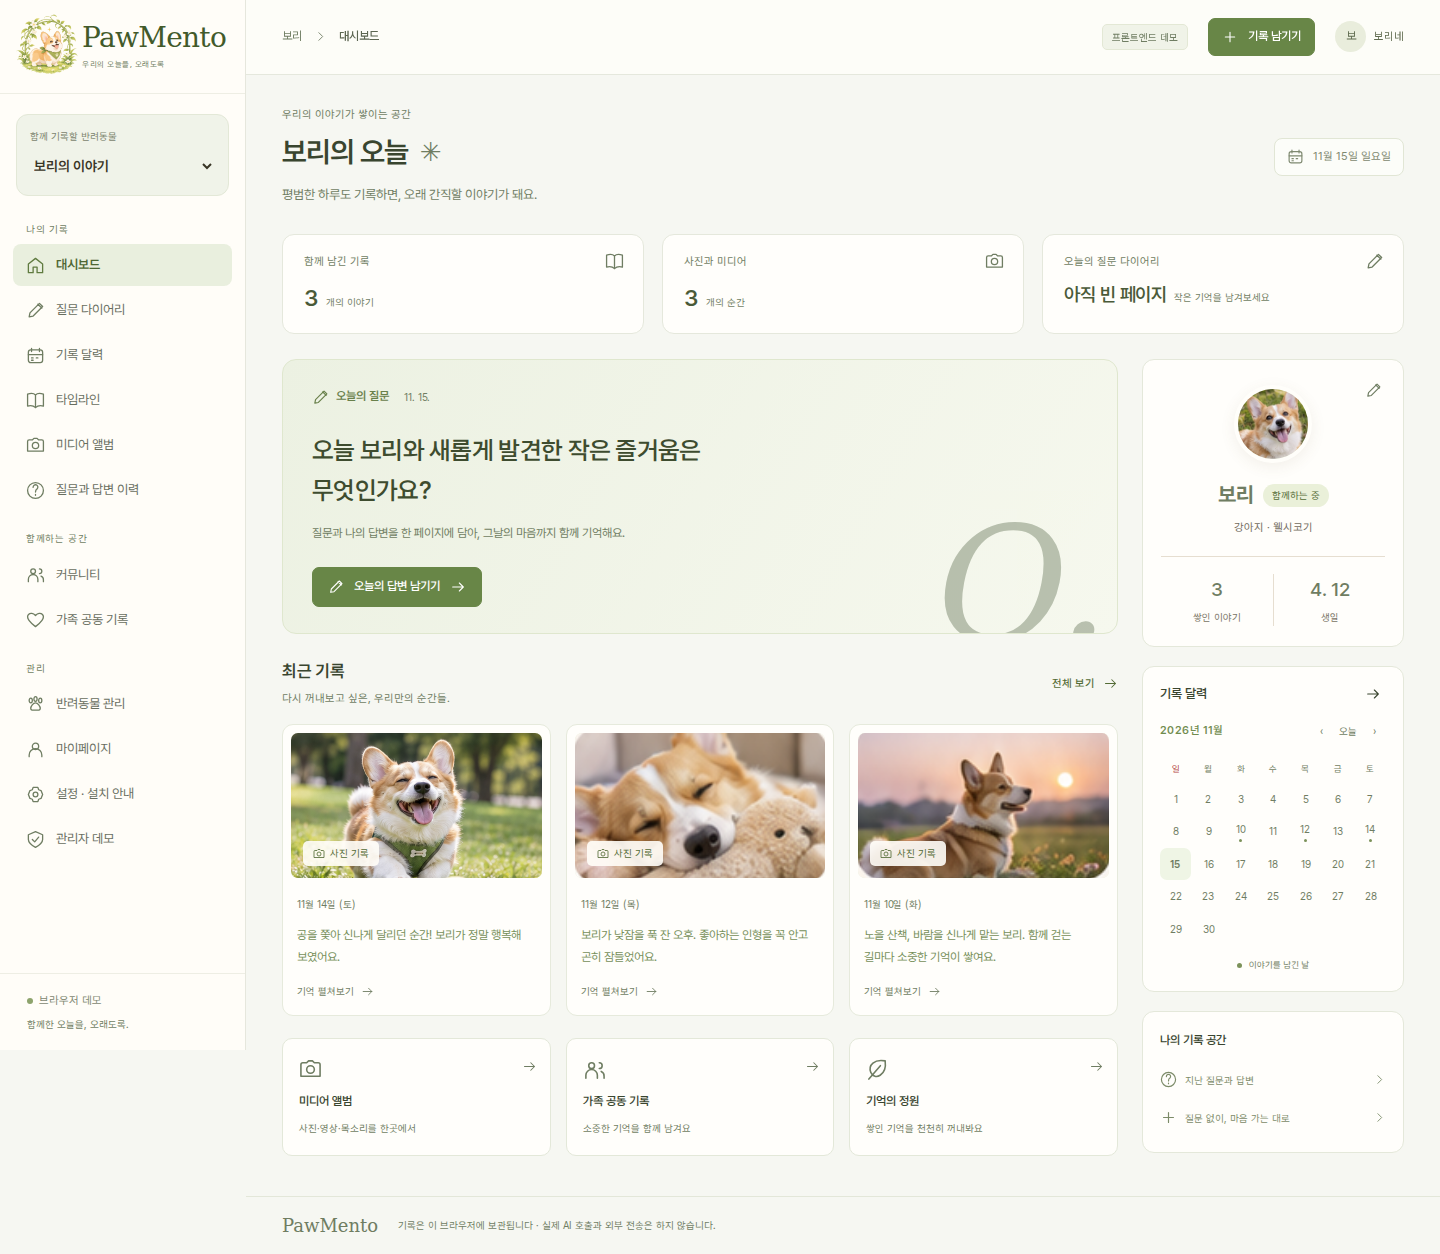
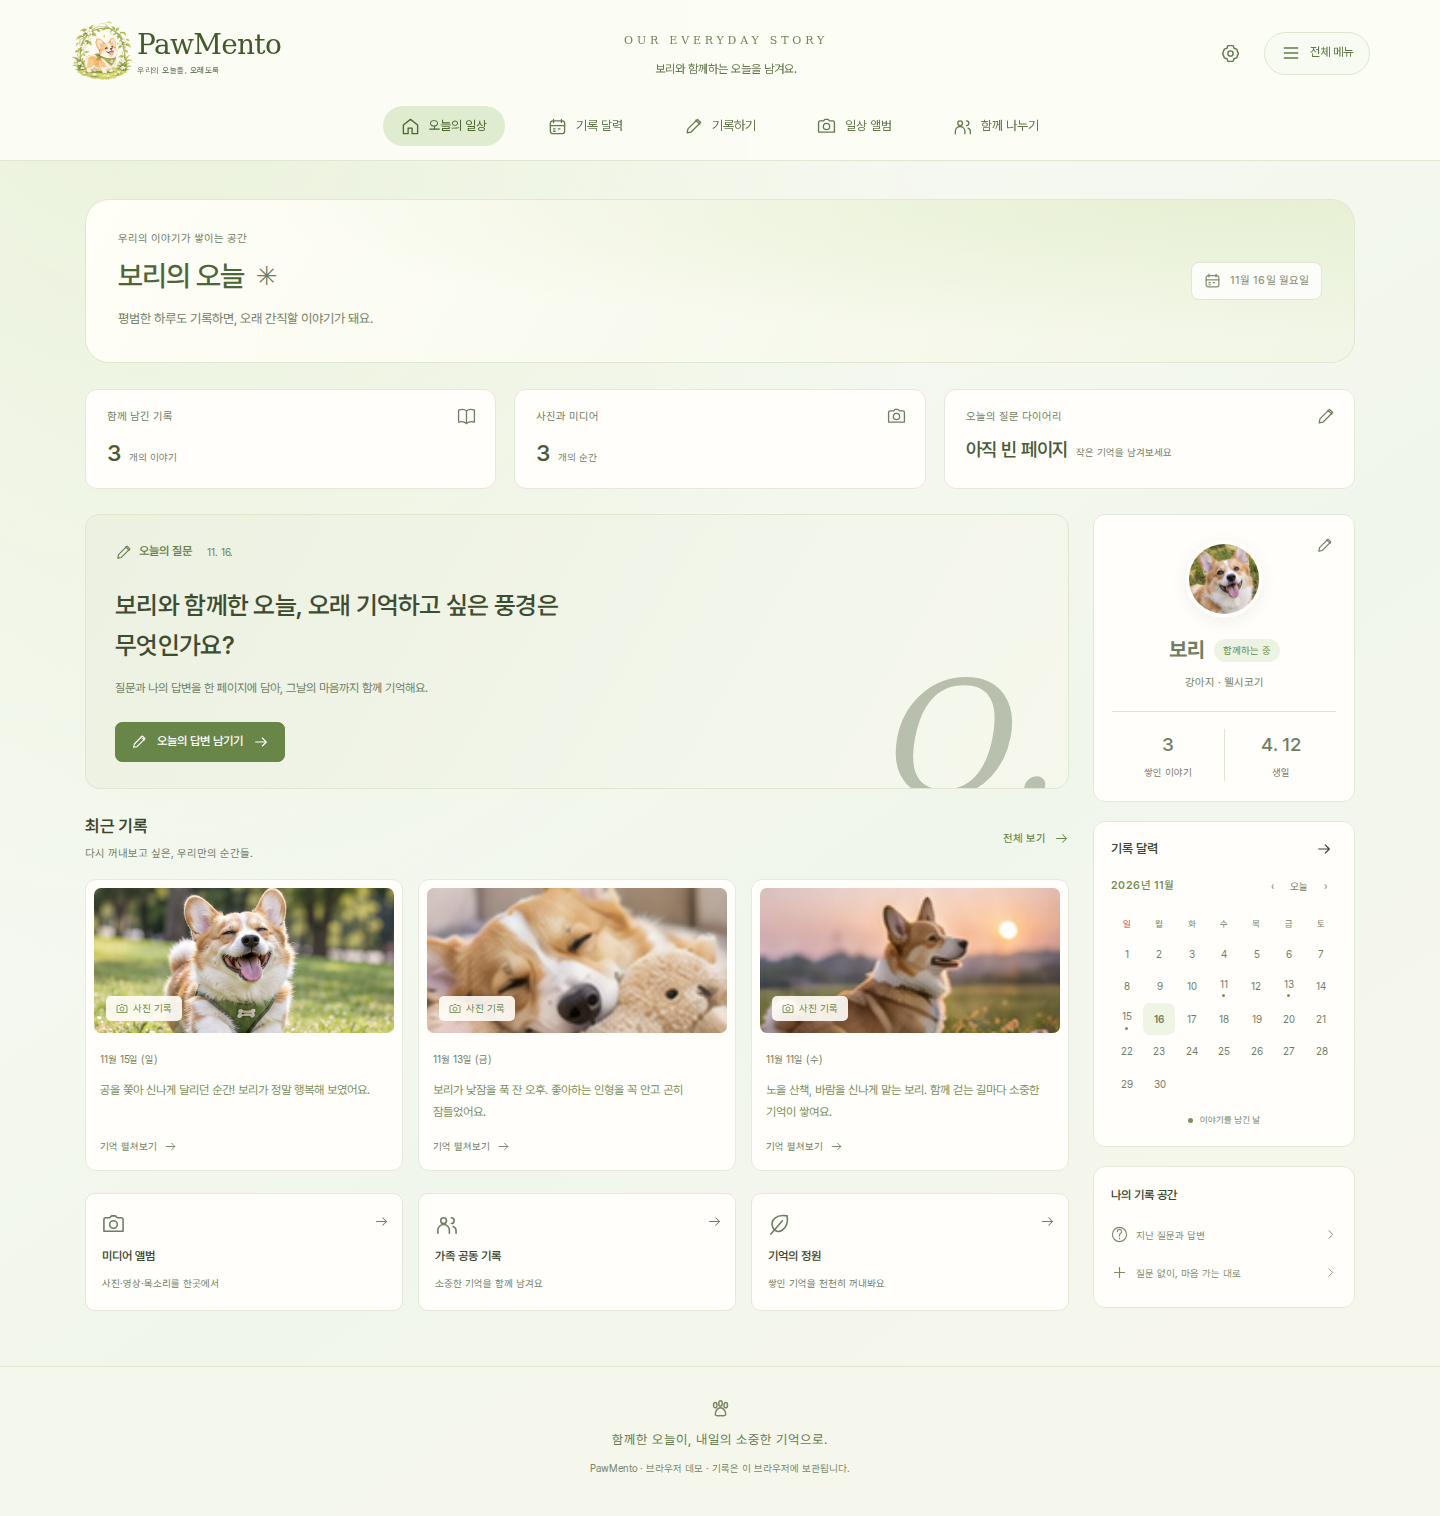
Docs: 공통 상단 레이아웃 디자인 가이드와 최신 화면 정리

diff --git a/docs/Frontend/PawMento_Design_Tokens_Hexagonal.md b/docs/Frontend/PawMento_Design_Tokens_Hexagonal.md
@@ -1,288 +1,61 @@
-# PawMento — 디자인 토큰 · UI 가이드
+# PawMento 디자인 토큰 · UI 가이드
 
-> **문서 버전:** 1.1 (헥사고날 프론트엔드 대응) · **대상:** PC 웹 우선 → 반응형 모바일 → PWA<br>
-> **브랜드 컨셉:** 햇살 드는 정원, 기록하는 오늘, 차분한 추억. *따뜻하지만 유치하지 않은* 라이프로그 서비스.<br>
-> **중요:** 이 문서의 수치와 색상은 첨부 기능명세에 **기재되어 있지 않은 디자인 제안값**이다. 실제 브랜드 색상과 대비 검증 후 확정한다.
+현재 P1~P3 프론트엔드 데모 기준이다. 실제 값은 [tokens.css](../../frontend/src/shared/ui/tokens.css), 공통 요소는 [globals.css](../../frontend/src/app/globals.css)를 기준으로 한다.
 
-## 1. 비주얼 방향
+## 일상과 정원
 
-- **ACTIVE:** 아이보리 바탕, 세이지 그린 CTA, 살구색으로 작은 포인트. 일상·질문·기록에 초점.
-- **GARDEN(P2):** 같은 디자인 시스템을 공유하되 부드러운 초록 그라데이션, 정원 이미지와 여유로운 여백으로 회상 경험 강화.
-- **COMMUNITY(P2):** 본문 가독성 중심, 장식 최소. 장례·추모 관련 게시물의 이미지를 강제로 노출하거나 강조하지 않음.
-- **AI 우체통(P3):** GARDEN 안에서만 쓰는 오브젝트. 따뜻한 크림색 봉투/조용한 반짝임. 강한 빨간 숫자 배지·팝업·자동 재생 없음(기존 UX 선호에 따른 제안).
-- **일러스트:** 보리 같은 반려동물의 캐릭터는 빈 상태·온보딩·AI 엽서 시안에서 제한적으로 사용. 콘텐츠의 중심은 사용자가 올린 **실제 사진**.
+두 공간은 정원의 개방적인 상단 레이아웃을 공유하되 색감·메뉴·본문 요소로 구분한다. 전환은 **설정 → 반려동물별 공간 설정**에서만 제공하며 기록은 유지한다.
 
-## 2. 색상 팔레트 (Light Theme 제안)
-
-| 토큰 | HEX | 용도 |
-|---|---|---|
-| `--color-ivory-50` | `#FFFCF7` | 카드 및 강조 배경 |
-| `--color-ivory-100` | `#F8F3E9` | 기본 캔버스 |
-| `--color-cream-200` | `#EFE9DE` | 구분 선 및 보조 배경 |
-| `--color-sage-100` | `#E9EFE5` | 연한 포커스/선택 바탕 |
-| `--color-sage-200` | `#DCE9D9` | 태그/배경 |
-| `--color-sage-400` | `#A8B99B` | 차트/장식 |
-| `--color-sage-600` | `#687F57` | 주요 버튼 및 아이콘(제안) |
-| `--color-sage-700` | `#4D6541` | hover 및 어두운 브랜드색 |
-| `--color-apricot-100` | `#F9E8D8` | 따뜻한 정보 카드 |
-| `--color-apricot-300` | `#F5D9C5` | 엽서·작은 포인트 |
-| `--color-sky-100` | `#EAF3F5` | 보조 정보 배경 |
-| `--color-brown-900` | `#38352F` | 기본 텍스트 |
-| `--color-brown-600` | `#625E56` | 보조 텍스트 |
-| `--color-brown-500` | `#756F66` | 캡션(가독성 확인 필요) |
-| `--color-white` | `#FFFFFF` | 입력·모달 표면 |
-| `--color-danger-600` | `#B54745` | 오류 및 삭제 |
-| `--color-success-700` | `#3C7051` | 저장 성공 및 안내 |
-
-**사용 규칙**
-- 기본 배경 **Ivory**, 카드 **Ivory 50/White**, 본문 **Brown 900**.
-- 주 CTA **Sage 700 + 흰색 글씨**를 기본 조합으로 제안. Sage 400 위 흰 글씨처럼 대비가 약한 조합은 피한다.
-- 살구색/연두색은 본문 텍스트보다 **배경이나 포인트 요소**에 사용.
-- 역할색(오류·성공)은 반드시 텍스트/아이콘과 함께 전달하고 색만으로 상태를 표현하지 않는다.
-- 실제 배포 전 WCAG 대비 확인: 본문 텍스트 **4.5:1 이상**, 큰 글자/주요 UI 요소는 요구 기준 확인.
-
-## 3. Semantic Tokens
-
-| 의미 | CSS 변수 | 초기값 |
-|---|---|---|
-| 페이지 배경 | `--surface-page` | `var(--color-ivory-100)` |
-| 카드 | `--surface-card` | `var(--color-ivory-50)` |
-| 입력/모달 | `--surface-elevated` | `var(--color-white)` |
-| 부드러운 강조 | `--surface-subtle` | `var(--color-sage-100)` |
-| 텍스트 | `--text-primary` | `var(--color-brown-900)` |
-| 보조 텍스트 | `--text-secondary` | `var(--color-brown-600)` |
-| 브랜드 | `--brand-primary` | `var(--color-sage-700)` |
-| 브랜드 hover | `--brand-hover` | `#354B2B` |
-| 포커스 링 | `--focus-ring` | `#385E46` |
-| 기본 경계선 | `--border-default` | `#D8D8CD` |
-| 오류 | `--text-danger` | `var(--color-danger-600)` |
-
-## 4. Typography
-
-| 유형 | 크기/행간 | 무게 | 용도 |
+| 공간 | PC | 모바일 | 표현 |
 |---|---|---|---|
-| 브랜드 영문 | `32px / 1.15` | 600 | PawMento 로고타입(선택적 세리프) |
-| Display | `40px / 1.2` | 700 | PC 홈 주요 제목 |
-| H1 | `32px / 1.25` | 700 | 화면 제목 |
-| H2 | `24px / 1.35` | 700 | 섹션 제목 |
-| H3 | `20px / 1.4` | 600 | 카드 제목 |
-| Body L | `17px / 1.65` | 400 | 설명 본문 |
-| Body | `16px / 1.6` | 400 | 기본 텍스트 |
-| Small | `14px / 1.5` | 400 | 메타·헬프 텍스트 |
-| Caption | `12px / 1.5` | 500 | 제한적 캡션 |
+| 일상 · ACTIVE | 상단 로고·가로 탐색·오늘의 질문과 기록 | 전체 메뉴와 일상 전용 하단 탐색 | 연한 녹색, 올리브색 버튼, 간결한 기록 카드 |
+| 정원 · GARDEN | 독립된 상단 로고·가로 탐색·사진 전시·우체통 | 정원 전용 하단 탐색과 전체 메뉴 | 크림색 종이, 파스텔 보라, 수채화 정원 |
 
-- 기본 스택: `Pretendard`, `SUIT`, `Noto Sans KR`, 시스템 sans-serif 순서(실제 배포 라이선스·로딩 확인).
-- 영문 브랜드명에만 세리프체(예: Georgia)를 사용해도 됨. **기능 UI는 동일한 산세리프 서체**로 통일.
-- 모바일에서는 Display `32px`, H1 `26px`, H2 `22px`; 본문은 가능하면 **16px 유지**.
-- 텍스트 전체를 이미지로 제작하지 않는다. 버튼/라벨은 실제 HTML 텍스트로 구현한다.
+`AppShell`이 전체 기능 탐색을 구성하고 `SpaceShell`이 두 공간의 공통 레이아웃과 공간별 메뉴를 담당한다. 공통 기능은 정원 전체 메뉴에서도 접근한다. 화면 표현은 어댑터·공유 UI 계층에서 관리하며 도메인·애플리케이션 계층에 넣지 않는다.
 
-## 5. Spacing · Radius · Shadow
+## 의미별 색상
 
-**간격** (4px 계열): `4 / 8 / 12 / 16 / 20 / 24 / 32 / 40 / 48 / 64 / 80` px.
+`:root`가 일상 기본값이며 `[data-mode="GARDEN"]`에서 정원 값을 상속한다. 공통 요소는 의미별 토큰을 사용한다. 엽서의 종이·우표처럼 개별 표현에 필요한 색은 해당 CSS 모듈에서 관리한다.
 
-| 요소 | 값 |
-|---|---|
-| 카드 내부 여백 | `20~24px` (모바일 `16px`) |
-| 섹션 사이 | `48~64px` (모바일 `32px`) |
-| 버튼 높이 | 기본 `44px`, 강조 CTA `48px` |
-| 입력 높이 | `44px` 이상 |
-| 아이콘 크기 | `16 / 20 / 24` px |
-| Radius sm | `8px` |
-| Radius md | `12px` |
-| Radius lg | `18px` |
-| Radius xl | `24px` |
-| Radius pill | `999px` |
-| 그림자 낮음 | `0 2px 10px rgb(44 54 36 / .06)` |
-| 그림자 카드 | `0 8px 28px rgb(44 54 36 / .08)` |
-| 그림자 모달 | `0 20px 60px rgb(44 54 36 / .16)` |
-
-그림자는 적게 사용하고, **테두리·여백·크림 톤 대비**로 구조를 만든다. GARDEN 배경 일러스트가 밝으면 반드시 읽기 좋은 불투명 카드 위에 본문을 배치한다.
-
-## 6. Layout · Breakpoints
-
-| 범위 | 제안 레이아웃 |
-|---|---|
-| `>= 1280px` 데스크톱 | 최대 컨테이너 `1200px`, 12컬럼, 큰 이미지 + 보조 패널 |
-| `1024~1279px` 노트북 | 컨테이너 `calc(100%-48px)`, 8~12컬럼 유연 |
-| `768~1023px` 태블릿 | 8컬럼, 카드 2열, 사이드 패널 축소 |
-| `<= 767px` 모바일 | 4컬럼 또는 1열, 좌우 여백 16px, 간결한 헤더·하단 내비게이션 |
-| `<= 390px` 소형 모바일 | 카드·폼 한 열, 버튼 전체 너비 검토 |
-
-- PC 우선이지만 **모바일에서 스크롤/터치 불편이 없도록** 구조를 처음부터 유연하게 제작.
-- 사진 갤러리: PC 3~4열, 태블릿 2열, 모바일 2열 또는 콘텐츠에 맞는 1열.
-- 일기 작성 폼: PC 사진/답변 2열 가능, 모바일 한 열 스택.
-- 최소 터치 영역 `44px` 권장, 고정 하단 CTA는 키보드가 떠도 입력창을 가리지 않도록.
-- `max-width: 1200px` 전체 컨테이너, 읽기용 텍스트는 `max-width: 720px` 권장.
-
-## 7. Component UI States
-
-| 컴포넌트 | 기본 | 포커스/선택 | 비활성/오류 |
+| 토큰 | 일상 | 정원 | 용도 |
 |---|---|---|---|
-| Primary Button | 진한 세이지, 흰 텍스트 | 어두운 세이지, 포커스 링 | opacity만 줄이지 말고 명확한 비활성 |
-| Secondary Button | 밝은 카드, 세이지 텍스트 | 테두리 강조 | disabled 일관화 |
-| Text Input | 화이트, 옅은 경계선 | 선명한 링 | 붉은 테두리+오류 문구 |
-| Question Card | 크림/세이지 배경 | 가벼운 그림자/테두리 | 작성 완료 시 완료 문구 |
-| Record Card | 사진 미리보기 + 날짜 | hover elevation | 이미지 로딩 실패 대체 UI |
-| Tab | 글자+언더라인/배경 | 선택된 탭 명확히 | 접근 불가 탭은 숨김 또는 안내 |
-| Toast | 중립 크림 | 성공·오류 상태 | 자동 사라짐 이전 읽을 시간 보장 |
-| Dialog | 흰 표면/짙은 본문 | 키보드 포커스 트랩 | 확인 중 중복 제출 차단 |
+| `--surface-page` | `#f6f7f2` | 정원 셸의 수채화 배경 | 캔버스 |
+| `--surface-card` | `#fffefb` | `#fffdf8` | 카드 |
+| `--surface-elevated` | `#fffefa` | 상속 | 입력·대화상자 기본 표면 |
+| `--surface-subtle` | `#edf3e3` | `#eae8f0` | 연한 강조 |
+| `--text-primary` | `#39452f` | `#5c5966` | 본문 |
+| `--text-secondary` | `#6f7d62` | `#7e7987` | 보조 설명 |
+| `--brand-primary` | `#688647` | `#80758e` | 주요 버튼·링크 |
+| `--brand-hover` | `#587638` | `#6c627b` | 주요 버튼 호버 |
+| `--border-default` | `#dce5ce` | `#ded9dc` | 경계선 |
+| `--focus-ring` | `#385e46` | 상속 | 키보드 포커스 |
+| `--text-danger` | `#b54745` | 상속 | 오류·삭제 |
 
-### 카드별 밀도 가이드
+정원 공용 카드에는 `--mode-card: #fffdf7e8`, `--mode-subtle: #eeedf4`, `--mode-border: #ded9dc`, `--mode-ink: #5c5966`, `--mode-muted: #7e7987`을 사용한다. 일상에서는 각 컴포넌트의 기본값을 따른다.
 
-- **오늘의 질문:** 한 화면에 질문은 **한 개**. 질문과 CTA를 가장 강조.
-- **사진 기록:** 썸네일, 제목/첫 줄, 날짜, 유형 정도만. 한 카드 안에 긴 본문 삽입 금지.
-- **GARDEN:** 사진/목소리/타임라인과 조용한 정원 테마. 묘비·검정 추모 UI 금지.
-- **우체통:** 도착 봉투 유무로 상태를 알리고 **강한 배지나 푸시 없음**(확정 필요). 기억의 정원 전용.
-- **커뮤니티:** 제목, 카테고리, 작성 정보, 댓글/좋아요 개수; 정원 장식보다 읽기 쉬운 정보 위계 우선.
+## 글꼴과 형태
 
-## 8. Design Tokens CSS — 복사해서 시작하는 코드
+- 본문은 로컬 Pretendard 가변 글꼴, 브랜드는 Georgia 계열이다. 정원 제목은 Georgia와 본문 글꼴을 함께 지정한다.
+- 공통 버튼은 PC 높이 43px·글자 13px, 모바일 높이 42px·글자 12px이다. 버튼·입력 기본 모서리는 8px, 배지는 5px이다.
+- 카드·사진·엽서는 용도에 따라 모서리를 지정한다. 초기 시안의 일괄 22~36px 반경과 1200px 레이아웃 제한은 사용하지 않는다.
+- 두 공간의 본문 최대 폭은 1360px이다. 1050px 이하에서는 여백을 줄이고 767px 이하에서는 전용 하단 메뉴를 제공한다.
+- 공통 마스트헤드는 최대 1380px이다. 일상은 연녹색 아침빛 배경과 오늘 중심의 콘텐츠, 정원은 수채화 배경과 추억 전시를 사용한다. 화면을 휴대전화 프레임 안에 고정하지 않는다.
+- 키보드 포커스는 3px 외곽선으로 표시하고 동작 줄이기 설정을 존중한다. 오류·선택 상태는 색과 함께 문구·아이콘으로 전달한다.
 
-아래는 `src/app.css`에 배치하거나 `src/ui/tokens.css`로 분리해 import해도 되는 **초안**이다. 모든 CSS Module은 이 변수만 참조하도록 한다.
+## 로고와 이미지
 
-```css
-:root {
-  color-scheme: light;
-  --color-ivory-50: #fffcf7;
-  --color-ivory-100: #f8f3e9;
-  --color-cream-200: #efe9de;
-  --color-sage-100: #e9efe5;
-  --color-sage-200: #dce9d9;
-  --color-sage-400: #a8b99b;
-  --color-sage-600: #687f57;
-  --color-sage-700: #4d6541;
-  --color-apricot-100: #f9e8d8;
-  --color-apricot-300: #f5d9c5;
-  --color-sky-100: #eaf3f5;
-  --color-brown-900: #38352f;
-  --color-brown-600: #625e56;
-  --color-brown-500: #756f66;
-  --color-white: #fff;
-  --color-danger-600: #b54745;
-  --color-success-700: #3c7051;
+`public/images/04e9e24933b3e4bb.png`는 일상 코기 로고, `8df6278d43d07b9e.png`는 정원 문 로고다. `Brand.tsx`에서 워드마크와 조합하며 페이지 배경에 크게 반복하지 않는다.
 
-  --surface-page: var(--color-ivory-100);
-  --surface-card: var(--color-ivory-50);
-  --surface-elevated: var(--color-white);
-  --surface-subtle: var(--color-sage-100);
-  --text-primary: var(--color-brown-900);
-  --text-secondary: var(--color-brown-600);
-  --text-danger: var(--color-danger-600);
-  --brand-primary: var(--color-sage-700);
-  --brand-hover: #354b2b;
-  --border-default: #d8d8cd;
-  --focus-ring: #385e46;
+`watercolor-garden.png`는 정원·엽서 배경이다. `brand/reference-home.png`는 데모 사진을 잘라 보여주는 실제 소스이므로 불필요한 캡처로 취급하지 않는다.
 
-  --font-sans: Pretendard, SUIT, 'Noto Sans KR', system-ui, sans-serif;
-  --font-brand: Georgia, 'Times New Roman', serif;
-  --text-xs: 0.75rem;
-  --text-sm: 0.875rem;
-  --text-md: 1rem;
-  --text-lg: 1.0625rem;
-  --heading-sm: 1.25rem;
-  --heading-md: 1.5rem;
-  --heading-lg: 2rem;
-  --display: 2.5rem;
+## 질문 기록과 엽서
 
-  --space-1: 4px;
-  --space-2: 8px;
-  --space-3: 12px;
-  --space-4: 16px;
-  --space-5: 20px;
-  --space-6: 24px;
-  --space-8: 32px;
-  --space-10: 40px;
-  --space-12: 48px;
-  --space-16: 64px;
-  --space-20: 80px;
+질문형 일기는 날짜·질문 식별자·질문 원문·답변을 함께 저장한다. 홈·기록 상세·캘린더에서도 질문과 답변을 함께 표시한다.
 
-  --radius-sm: 8px;
-  --radius-md: 12px;
-  --radius-lg: 18px;
-  --radius-xl: 24px;
-  --radius-pill: 999px;
-  --shadow-low: 0 2px 10px rgb(44 54 36 / 0.06);
-  --shadow-card: 0 8px 28px rgb(44 54 36 / 0.08);
-  --shadow-modal: 0 20px 60px rgb(44 54 36 / 0.16);
-  --layout-max: 1200px;
-  --reading-max: 720px;
-  --control-height: 44px;
-  --control-height-lg: 48px;
-}
+엽서는 **기록 한 개를 무작위로 선택하고 그 상황과 반려동물 참조 사진을 바탕으로 새로운 장면을 만드는 경험**을 데모로 표현한다. 현재는 공원·바다·낮잠의 준비된 코기 수채화 이미지이며 실제 AI 생성이나 사용자 사진 분석은 하지 않는다.
 
-*, *::before, *::after { box-sizing: border-box; }
-body {
-  margin: 0;
-  background: var(--surface-page);
-  color: var(--text-primary);
-  font: 400 var(--text-md)/1.6 var(--font-sans);
-}
-button, input, textarea, select { font: inherit; }
-:focus-visible { outline: 3px solid var(--focus-ring); outline-offset: 3px; }
+앞면은 장면 그림, 뒷면은 줄이 있는 편지·받는 이·보내는 이·우표·소인으로 구성한다. 앞뒤 전환과 다운로드를 제공하며 다운로드 HTML에도 양면·이미지·글꼴을 포함한다.
 
-@media (max-width: 767px) {
-  :root { --display: 2rem; --heading-lg: 1.625rem; --heading-md: 1.375rem; }
-}
-@media (prefers-reduced-motion: reduce) {
-  *, *::before, *::after {
-    animation-duration: 0.01ms !important;
-    transition-duration: 0.01ms !important;
-    scroll-behavior: auto !important;
-  }
-}
-```
+## 화면 캡처
 
-## 9. Motion · Icon · Photography
-
-- 기본 전환 시간 `150~220ms`, easing `ease-out`. 버튼 hover는 살짝 밝기/그림자 변화만.
-- GARDEN 우체통 오픈 애니메이션은 사용자가 클릭했을 때만, `prefers-reduced-motion` 준수.
-- 아이콘은 하나의 일관된 라인 아이콘 세트 사용(예: Lucide). 둥근 모서리와 1.75~2px 스트로크.
-- 동물/발바닥/꽃 모티프는 로고와 일부 보조 요소에만. 모든 버튼에 발바닥을 반복하지 않음.
-- 사진은 실제 기록을 우선. 샘플 데이터나 로컬 정적 이미지가 실제 사용자 정보처럼 보이지 않게.
-- 정원 배경은 홈 전체에 난잡하게 깔지 않고 GARDEN Hero에 집중. 텍스트 가독성 유지.
-
-## 10. UI 검수 체크리스트
-
-- [ ] 모든 텍스트/버튼/배경 색상이 semantic token을 사용한다.
-- [ ] PC 1440px, 태블릿 768px, 모바일 390px와 360px에서 깨지지 않는다.
-- [ ] 본문 최소 16px 권장, 보조 정보 가독성 보장.
-- [ ] 탭/버튼/필드는 키보드로 접근 가능하며 포커스가 보인다.
-- [ ] 배경 이미지는 의미 있는 사진/콘텐츠를 방해하지 않는다.
-- [ ] 질문형 일기의 질문과 저장 CTA가 최우선 시각 요소다.
-- [ ] 모드 전환 확인 대화상자는 데이터 보존과 되돌리기를 설명한다.
-- [ ] GARDEN의 우체통은 ACTIVE에 나타나지 않는다(기획 확정 시).
-- [ ] AI 생성 엽서에는 출처와 'AI 생성' 표시를 제공한다.
-- [ ] 로딩·비어 있음·오류·완료 상태의 시각 규칙이 일치한다.
-
----
-
-**연계 문서:** `PawMento_Frontend_Blueprint.md` · 기준 요구사항 `PawMento_기능명세.md`.
-
-
----
-
-## 부록. 헥사고날 아키텍처에서의 디자인 토큰 관리 (v1.1 추가)
-
-디자인 토큰은 **비즈니스 도메인 모델이 아닌 UI 어댑터의 표현 계층 관심사**다. `domain/`이나 `application/`에서 CSS/테마/색상을 참조하지 않는다.
-
-권장 배치:
-
-```text
-src/
-├─ app.css                      # 아래 tokens.css import + 리셋
-├─ shared/ui/
-│  ├─ tokens.css               # 원시·semantic CSS 변수의 단일 출처
-│  ├─ Button/Button.module.css # 토큰만 참조, 스타일 코로케이션
-│  └─ ...
-├─ diaries/adapters/inbound/
-│  ├─ TodayQuestionCard.tsx
-│  └─ TodayQuestionCard.module.css
-└─ garden/adapters/inbound/
-   ├─ GardenHomeScreen.tsx
-   └─ GardenHomeScreen.module.css
-```
-
-- `domain`의 `PetMode`를 UI가 받아 `data-mode="active"` 또는 `data-mode="garden"`처럼 **표현용 속성으로 매핑**한다. 도메인 엔티티 안에 CSS 클래스나 컬러값을 저장하지 않는다.
-- 원시 컬러는 디자인 시스템에서, ACTIVE/GARDEN 배경과 우체통 스타일은 각 **inbound UI**에서 관리한다.
-- 서버에서 카테고리명이나 기록 종류가 늘어도 색상/뱃지 표현은 별도 view-model 매핑만 수정한다.
-- **웹 우선:** 데스크톱 타이포/그리드를 기준으로 만들고 태블릿/모바일 미디어쿼리를 적용. PWA에서도 동일 토큰을 재사용한다.
-- 프론트 테스트에서는 비즈니스 규칙 테스트와 별개로 Storybook/컴포넌트 테스트로 hover/focus/disabled/error 및 접근성을 확인한다.
+[screenshots](screenshots)에는 현재 일상·정원 PC·모바일, 질문·답변 캘린더, 엽서 작성·결과 PC·모바일을 유지한다. 이전 대시보드 PC·모바일 캡처는 최신 화면으로 대체되어 삭제했다. 기능 청사진과 P1~P3 범위 문서는 유지한다.
